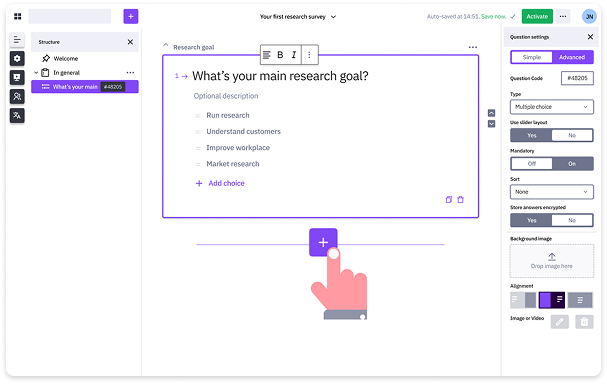
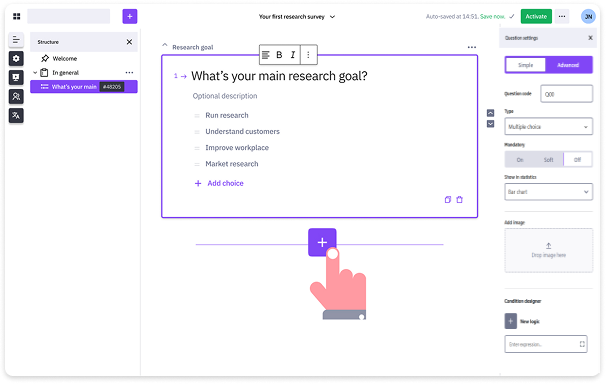
Fixed issue #AT-1911: Add theme prop to ToggleButtons and update styles for light theme (#4961)

diff --git a/editor/src/themes/buttons/btn-group.scss b/editor/src/themes/buttons/btn-group.scss
@@ -46,6 +46,35 @@
       box-shadow: none;
     }
   }
+
+  &.light {
+    .btn-group {
+      background: $g-300;
+
+      .btn {
+        color: $g-700;
+        text-align: center;
+        border: none;
+        border-left: 2px solid transparent;
+
+        &:focus-visible {
+          outline: 2px solid $grape;
+          outline-offset: 2px;
+        }
+      }
+
+      .btn-check:active + .btn-outline-lime-toggle,
+      .btn-check:checked + .btn-outline-lime-toggle,
+      .btn-outline-lime-toggle.active,
+      .btn-outline-lime-toggle.dropdown-toggle.show,
+      .btn-outline-lime-toggle:active {
+        background-color: $white;
+        border: none;
+        border-radius: 2px;
+        border-left: 2px solid $grape;
+      }
+    }
+  }
 }
 .lime-toggle-btn-group.isSecondary {
   .btn-group {

diff --git a/editor/src/components/UIComponents/Buttons/ToggleButtons.js b/editor/src/components/UIComponents/Buttons/ToggleButtons.js
@@ -34,6 +34,7 @@ export const ToggleButtons = ({
   onChange = () => {},
   update = () => {},
   activeDisabled = false,
+  theme = 'light',
   noPermissionDisabled = false,
   noAccessDisabled = false,
   optionTextClassName = '',
@@ -100,7 +101,7 @@ export const ToggleButtons = ({
   return (
     <TooltipContainer tip={toolTip} showTip={isDisabled}>
       <div
-        className={classNames('lime-toggle-btn-group', {
+        className={classNames('lime-toggle-btn-group', theme, {
           isSecondary,
         })}
       >

diff --git a/editor/src/components/QuestionSettings/Setting.js b/editor/src/components/QuestionSettings/Setting.js
@@ -180,6 +180,7 @@ export const Setting = ({
                 name={attribute.attributePath}
                 update={(value) => handleUpdateAttribute(value, attribute)}
                 isSimpleSettings={simpleSettings}
+                theme="light"
               />
             </TooltipContainer>
           </div>

diff --git a/editor/src/components/QuestionSettings/QuestionSettings.js b/editor/src/components/QuestionSettings/QuestionSettings.js
@@ -199,6 +199,7 @@ export const QuestionSettings = ({ surveyId }) => {
                 setQuestionSettingsOptions({ isAdvanced: value })
               }
               isSecondary
+              theme=""
             />
           </div>
 
